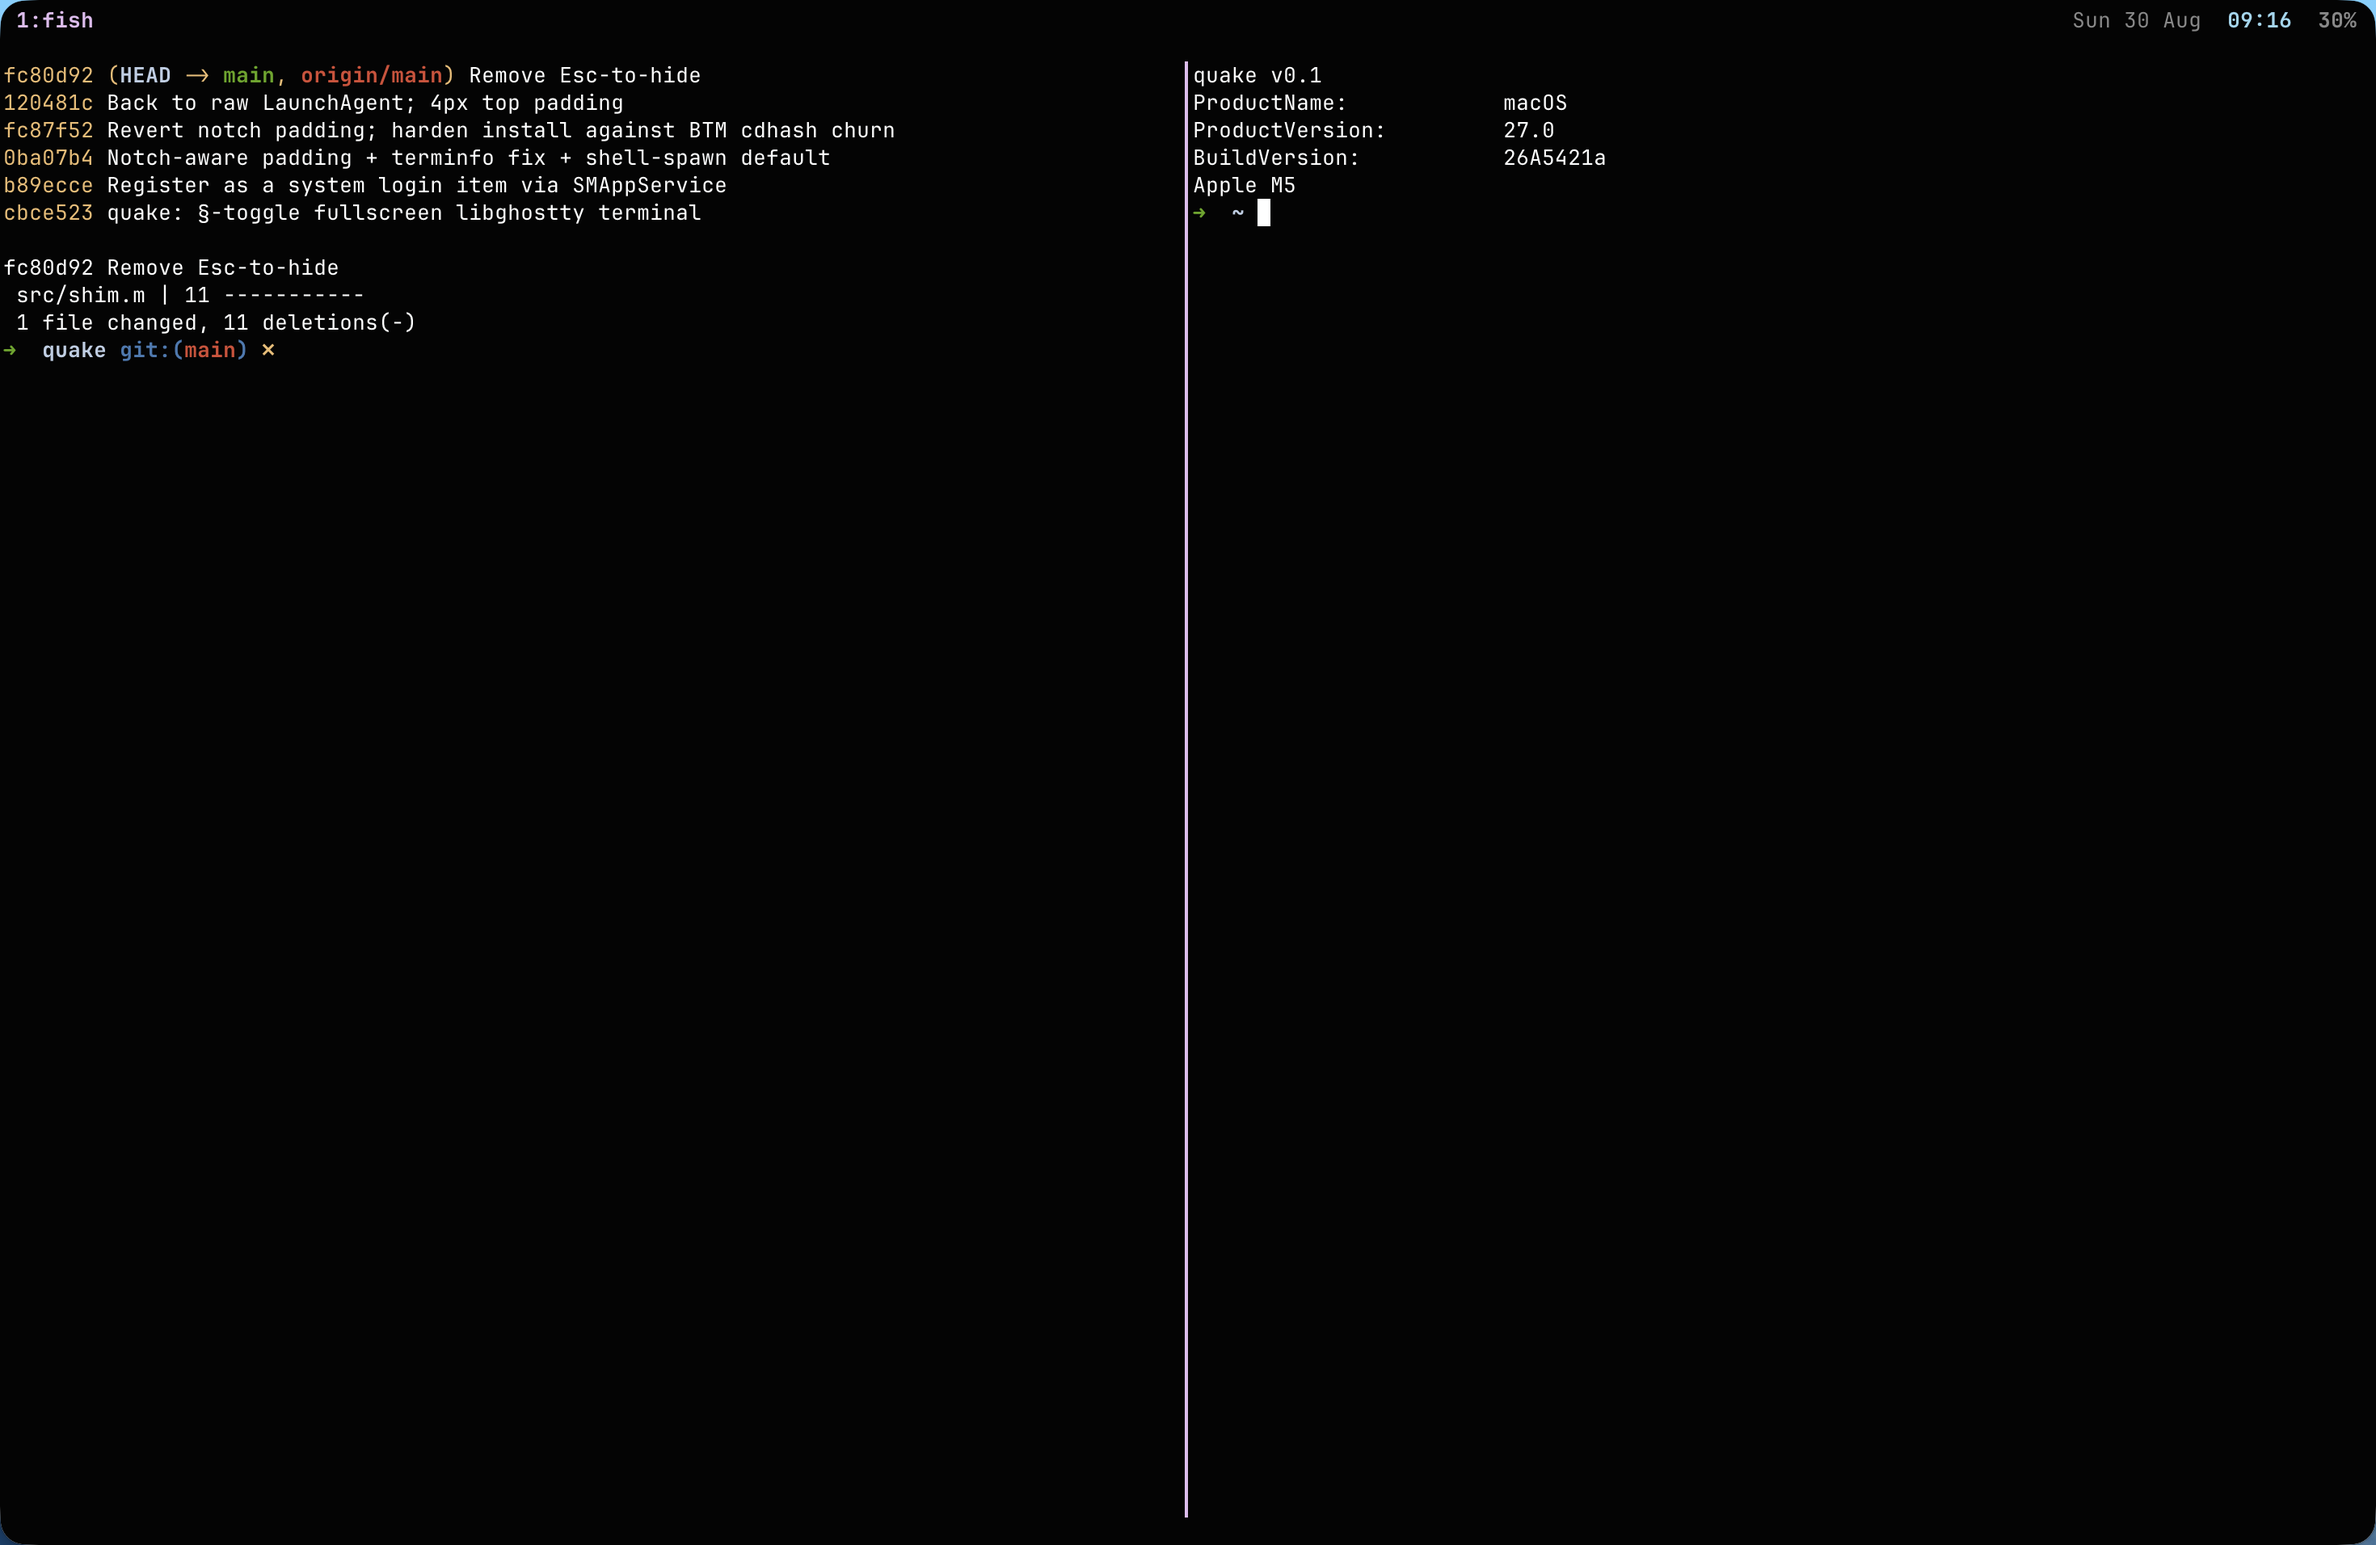
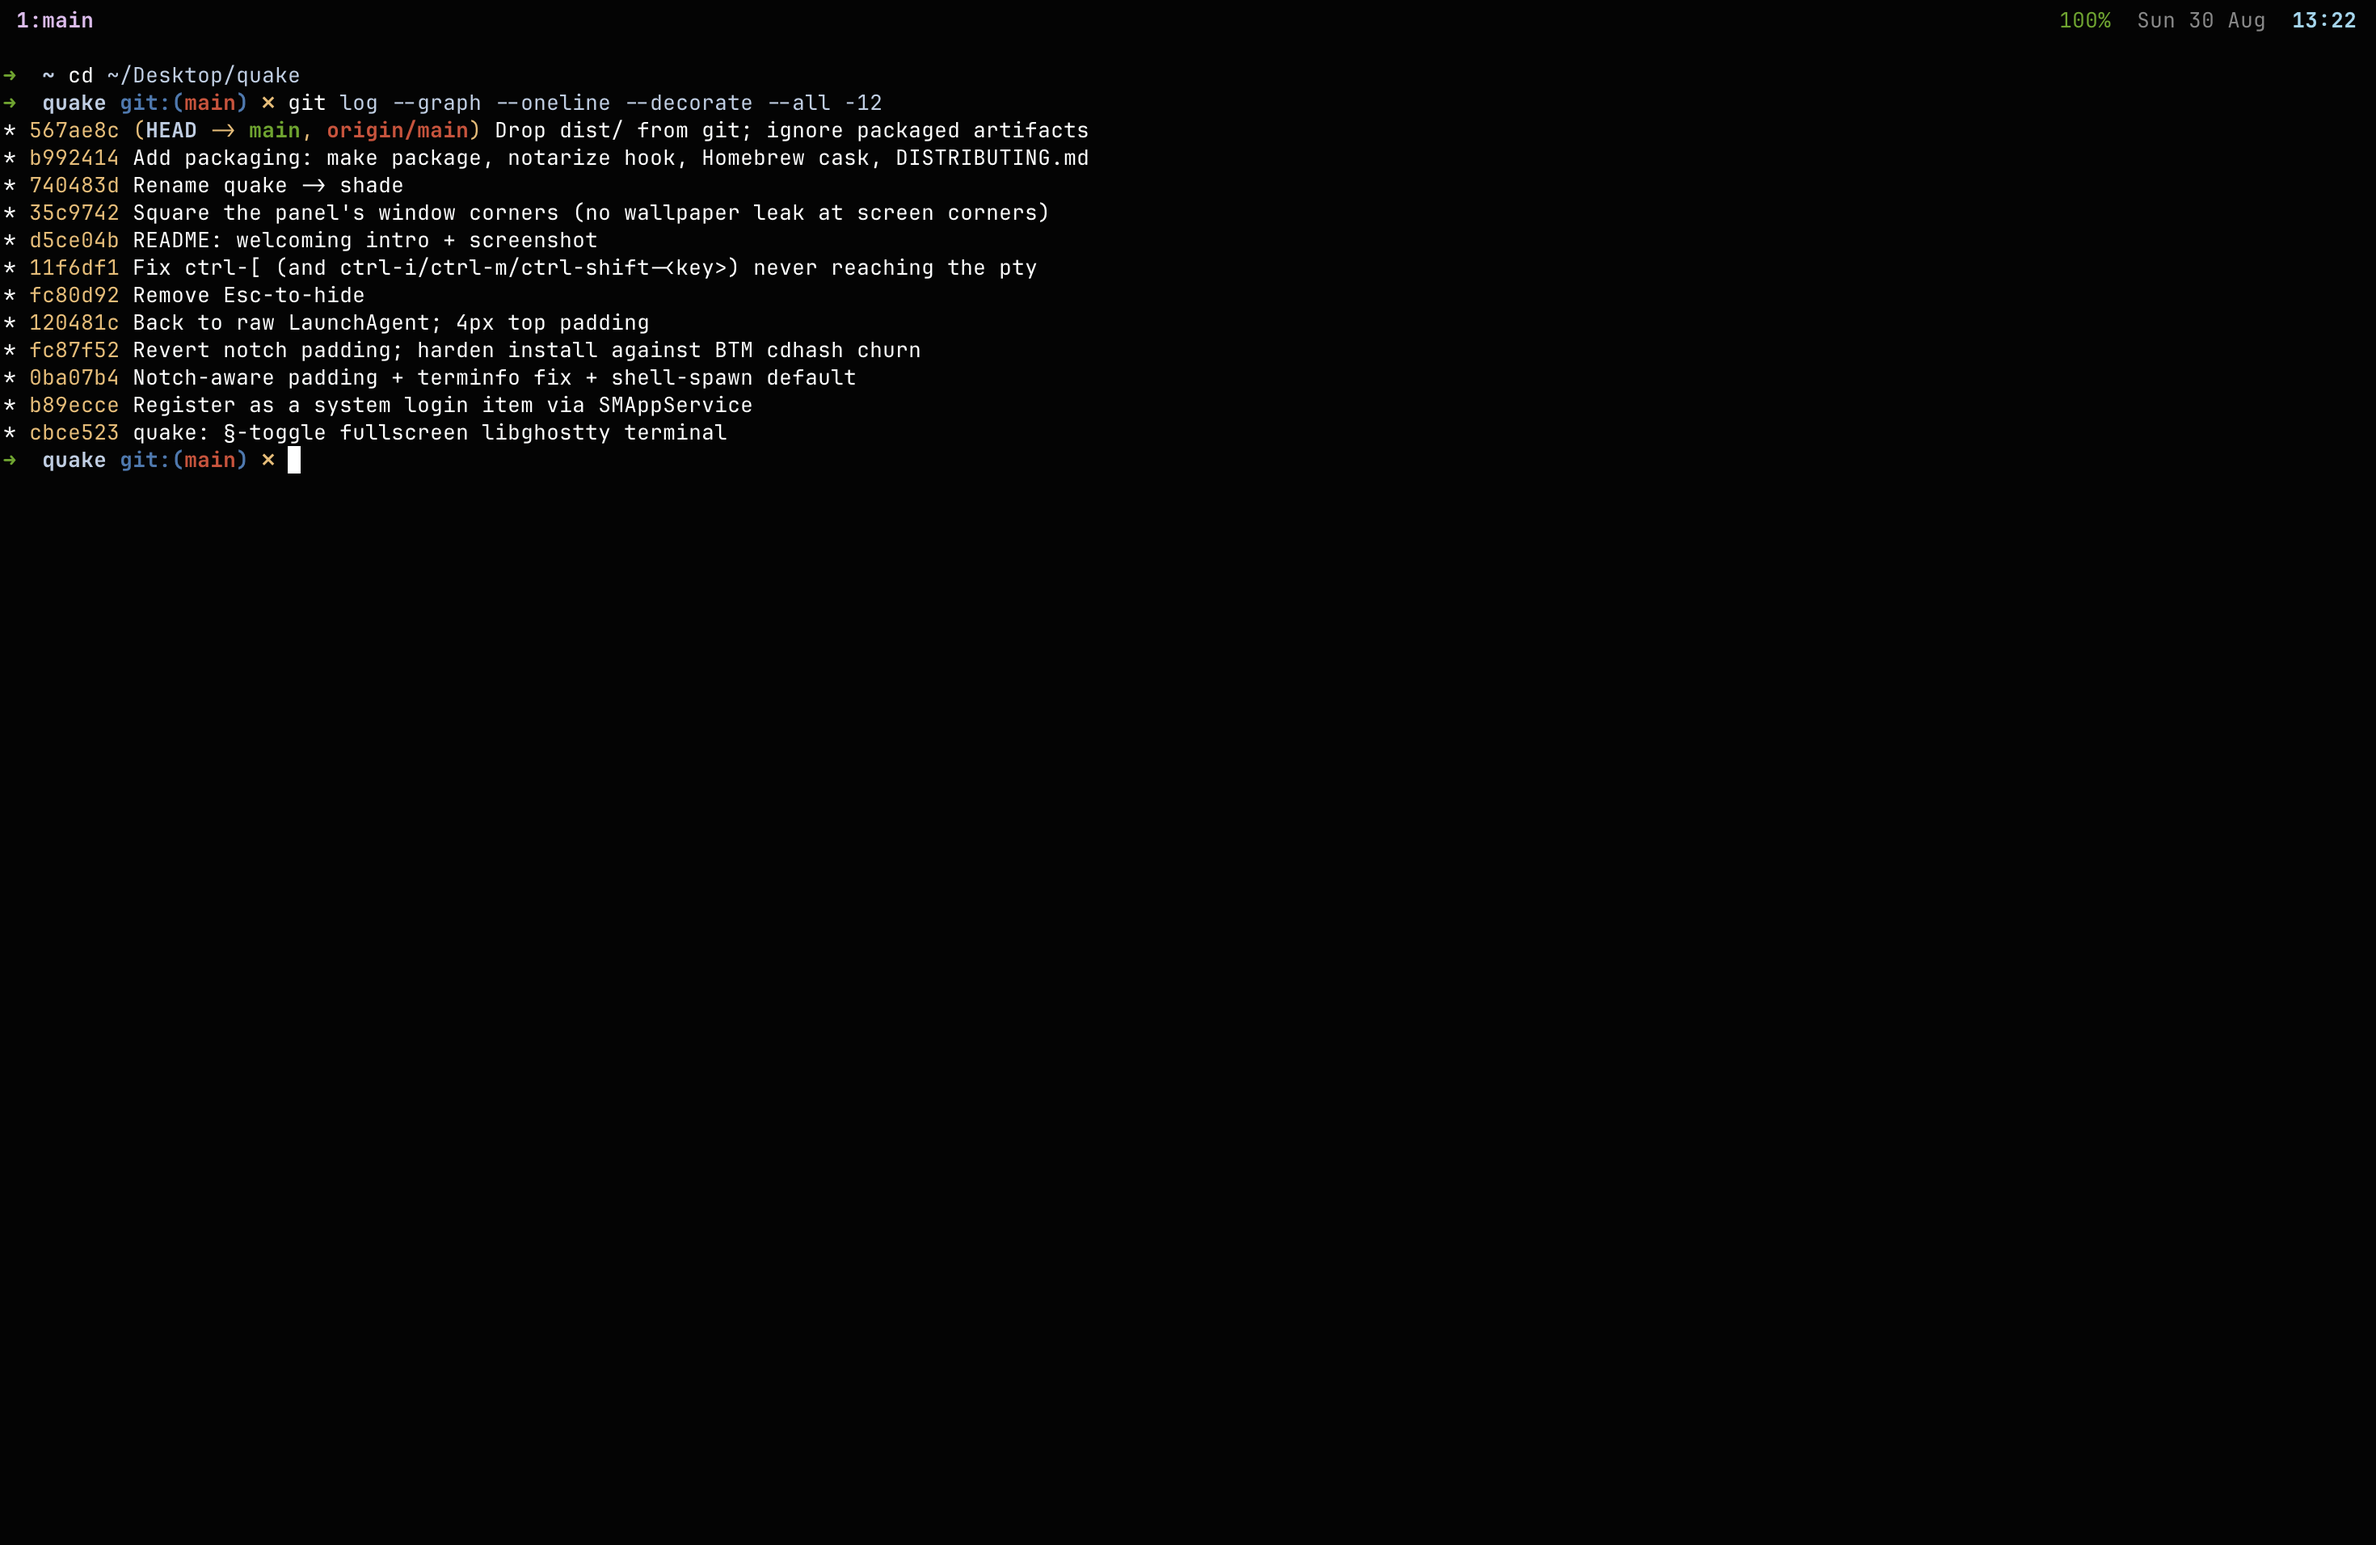
Clean up docs and tree; new screenshot
- README: beginner-friendly rewrite; drop the problems-solved log
- New screenshot (shade, square corners, macOS-matching clock)
- Move Casks/ + DISTRIBUTING.md into packaging/; remove .DS_Store
- Update remote to github.com/don-san-sec/shade

diff --git a/README.md b/README.md
@@ -2,138 +2,83 @@
 
 **A one-key dropdown terminal for macOS.** Press `§` and a fullscreen,
 GPU-rendered terminal drops over whatever you're doing. Press it again and
-it's gone. That's the whole idea.
+it's gone.
 
 ![shade running tmux](assets/screenshot.png)
 
-shade wraps [libghostty](https://ghostty.org) (Metal, GPU-rendered) in a tiny
-Rust + Objective-C shell — no tabs, no splits, no chrome, no settings pane.
-It borrows Ghostty's own renderer and key handling, so your existing
-`~/.config/ghostty/config` (theme, font, keybinds) just works.
+shade is built on [Ghostty](https://ghostty.org)'s terminal engine (Metal,
+GPU-rendered), wrapped in a tiny Rust + Objective-C shell. No tabs, no splits,
+no window chrome — just your shell, instantly.
 
-## Why you might like it
+## Why shade?
 
-- **One key, zero friction** — `§` (the ISO key left of `Z`) or `Option+6`
-  (which types `§` on the British layout) summons it from anywhere, on the
-  screen your mouse is on. It floats over fullscreen apps and covers the
-  menu bar.
-- **Your shell, your sessions** — the dropdown runs your login shell, so
-  your own config attaches tmux (e.g. fish: `exec tmux new-session -A -s main`)
-  and sessions persist across toggles. Detaching (`prefix d`) auto-hides
-  the panel.
-- **Fast and quiet** — no animation, no blur, no shadows; the surface is
-  killed on hide and respawned on show. It registers as a normal login
-  item, starts at login, and stays out of your Dock.
-- **Ghostty-grade input** — key events are translated exactly the way
-  Ghostty's own AppKit surface does, including fixterms CSI u encoding, so
-  `ctrl-[`, `ctrl-i` and friends arrive intact in tmux and vim.
+- **One key, from anywhere** — `§` (the key left of `Z`) or `Option+6` summons
+  it on the screen your mouse is on. It floats over fullscreen apps and covers
+  the menu bar.
+- **Your shell, your sessions** — it runs your login shell, so your existing
+  config attaches tmux (e.g. fish: `exec tmux new-session -A -s main`) and
+  sessions persist between toggles. Detaching (`prefix d`) hides the panel.
+- **Fast and quiet** — no animation, no blur, no Dock icon. Starts at login.
+- **Ghostty-grade input** — same key translation as the Ghostty app, so
+  `ctrl-[`, `ctrl-i` and friends reach tmux and vim intact.
+- **Uses your Ghostty config** — theme, font and keybinds from
+  `~/.config/ghostty/config` just work.
 
-## Quick start
+## Install
 
-### Prebuilt binary (fast)
-
-Grab `Shade-<version>-macos-arm64.zip` from [Releases](../../releases), unzip,
-and either drop `Shade.app` in `/Applications` yourself or use Homebrew:
+### Prebuilt binary (recommended)
 
 ```sh
 brew tap don-san-sec/tap
 brew install --cask shade
 ```
 
-It's ad-hoc signed, so on first launch Gatekeeper will warn — the cask strips
-the quarantine bit for you; a manual install needs
-`xattr -dr com.apple.quarantine /Applications/Shade.app` once.
-See `DISTRIBUTING.md` for how releases are cut.
+Or grab `Shade-<version>-macos-arm64.zip` from
+[Releases](../../releases), unzip, and move `Shade.app` to `/Applications`.
+
+It's ad-hoc signed, so Gatekeeper warns on first launch. The Homebrew cask
+handles this for you; a manual install needs one command:
+
+```sh
+xattr -dr com.apple.quarantine /Applications/Shade.app
+```
 
 ### Build from source
 
-Prerequisites:
-
-- macOS 14+ on Apple Silicon
-- Xcode Command Line Tools (`xcode-select --install`) — full Xcode NOT needed
-- `brew install rust zig@0.15`
+Requires macOS 14+ on Apple Silicon, Xcode Command Line Tools
+(`xcode-select --install`), and `brew install rust zig@0.15`.
 
 ```sh
-git clone --recurse-submodules <this repo>
+git clone --recurse-submodules https://github.com/don-san-sec/shade
 cd shade
-make lib      # one-time: patched zig + ghostty patches + libghostty.a (~20-40 min)
-make          # build Shade.app into build/
-make run      # try it without installing
-make install  # /Applications/Shade.app + login item
-make uninstall
+make lib      # one-time, ~20-40 min: builds libghostty
+make install  # build + install to /Applications + start at login
 ```
 
-`make install` copies the app to `/Applications`, installs a LaunchAgent
-(a plain agent is used because SMAppService/BTM entries get
-launch-constraint-killed for ad-hoc signed apps on macOS 27 beta — it still
-shows up under System Settings → General → Background App Activity), and
-starts it. It respawns if killed.
+`make run` tries it without installing; `make uninstall` removes it.
 
-`make lib` is slow once: it compiles libghostty from the vendored source.
-Everything after is seconds.
+## Use it
 
-## Config (optional)
+- `§` or `Option+6` — show / hide
+- That's it. Everything else is your normal shell and tmux.
+
+### Optional config
 
 `~/.config/shade/config`:
 
 ```
-session=work              # run `tmux new-session -A -s work` instead of the shell
+session=work      # run `tmux new-session -A -s work` instead of the shell
 # or
-command=htop              # any command; replaces the login shell entirely
+command=htop      # run any command instead of the shell
 ```
-
-Without these, shade spawns the login shell (whose config typically
-attaches tmux).
 
 ## How it works
 
-- `src/main.rs` — libghostty lifecycle, AppKit key/mouse event translation
-  (mirroring Ghostty's own macOS surface), toggle logic
-- `src/ffi.rs` — libghostty C ABI bindings
-- `src/shim.m` — AppKit panel/view, Carbon global hotkey, clipboard
-- `tools/fix-lib.sh` — rebuilds libghostty.a (works around Xcode 26+
-  libtool dropping zig objects)
-- `vendor/ghostty` — ghostty v1.3.1, pinned, with two build patches in
-  `patches/` applied automatically
-- The bundle ships Ghostty's resources so `theme = ...` resolves, and
-  terminfo for `xterm-ghostty` is compiled in via `tic`
-
-## Notes / gotchas discovered
-
-- Xcode CLT has no `metal`/`metallib` compilers: the build embeds a
-  metallib extracted from an official Ghostty.app of the same version
-  (see `SHADE_METALLIB` in `src/build/SharedDeps.zig` patch).
-- macOS 27 SDK `math.h` hides `INFINITY` under `-std=c++20`+; the vendored
-  zig copy in `build/zig` has a one-line libcxx fallback patch.
-- **macOS 26.3 RC / 26.4 beta / 27.0 beta regression**: genuinely
-  `borderless` windows can never become key (Apple forums 814798/814875).
-  shade uses a *titled* window with a fully hidden titlebar instead
-  (titleVisibility hidden, transparent titlebar, hidden traffic lights,
-  `fullSizeContentView`). Same look, working keyboard input.
-- On macOS 14+ ("cooperative activation"), self-activation from a hotkey
-  is only honored when requested via `NSRunningApplication.activateWithOptions:`,
-  and it's async — the panel is (re)made key from
-  `NSApplicationDidBecomeActiveNotification`.
-- `RegisterEventHotKey` returns `paramErr` if you pass a NULL out-ref.
-- Debug logging: `SHADE_DEBUG=1` in the environment → unified log
-  (`log show --predicate 'process == "Shade"'`).
-- `GHOSTTY_RESOURCES_DIR` must be set before `ghostty_init` for
-  `theme = ...` to resolve; the compiled terminfo must live at
-  `Contents/Resources/terminfo` (sibling of `ghostty/`) because that is
-  where libghostty points `TERMINFO`. Without it, tmux exits instantly
-  with "missing or unsuitable terminal".
-- Shell integration is disabled for the embedded surface
-  (`~/.config/shade/ghostty-override`, written at startup) — pointless
-  for a tmux dropdown and was implicated in early-exit debugging.
-- Key translation detail: macOS delivers `ctrl-[` as a literal ESC
-  character. Ghostty's macOS surface re-translates such events without
-  control and passes the plain character as text, which the core encoder
-  needs for fixterms CSI u sequences (`ctrl-[` → `ESC [ 91;5 u`). shade
-  mirrors this in `event_text()` in `src/main.rs`.
+- `src/main.rs` — libghostty lifecycle, key/mouse translation, toggle logic
+- `src/shim.m` — the AppKit panel and the global hotkey
+- `vendor/ghostty` — Ghostty's engine, pinned
 
 ## Credits
 
-- [Ghostty](https://ghostty.org) by Mitchell Hashimoto & contributors
-  (MIT) — the terminal core, renderer, and the event-translation logic
-  shade borrows.
-- shade itself: see `LICENSE`.
+- [Ghostty](https://ghostty.org) (MIT) — the terminal engine and key handling.
+- shade is MIT licensed — see `LICENSE`.

diff --git a/packaging/DISTRIBUTING.md b/packaging/DISTRIBUTING.md
@@ -9,7 +9,7 @@ packaging choice below.
 |---|---|---|
 | Cost | free | paid |
 | Download & run | Gatekeeper blocks it until `xattr -dr com.apple.quarantine` | opens cleanly |
-| Homebrew cask | works, needs the `postflight` quarantine strip (already in `Casks/shade.rb`) | works, no strip needed |
+| Homebrew cask | works, needs the `postflight` quarantine strip (already in `packaging/shade.rb`) | works, no strip needed |
 | Notarization | n/a | `make notarize` |
 
 If this stays a personal / small-audience tool, ad-hoc + the cask's
@@ -25,13 +25,13 @@ make package
 # 3. create the GitHub release and attach the zip
 git tag v0.1.0 && git push --tags
 gh release create v0.1.0 dist/Shade-0.1.0-macos-arm64.zip
-# 4. update version + sha256 in Casks/shade.rb (sha256 is printed by make package)
+# 4. update version + sha256 in packaging/shade.rb (sha256 is printed by make package)
 ```
 
 ## Homebrew (recommended install UX)
 
 Casks live in a separate **tap** repo, not this one. Create
-`github.com/don-san-sec/homebrew-tap`, put `Casks/shade.rb` in its `Casks/`
+`github.com/don-san-sec/homebrew-tap`, put `packaging/shade.rb` in its `Casks/`
 dir, then users run:
 
 ```sh
